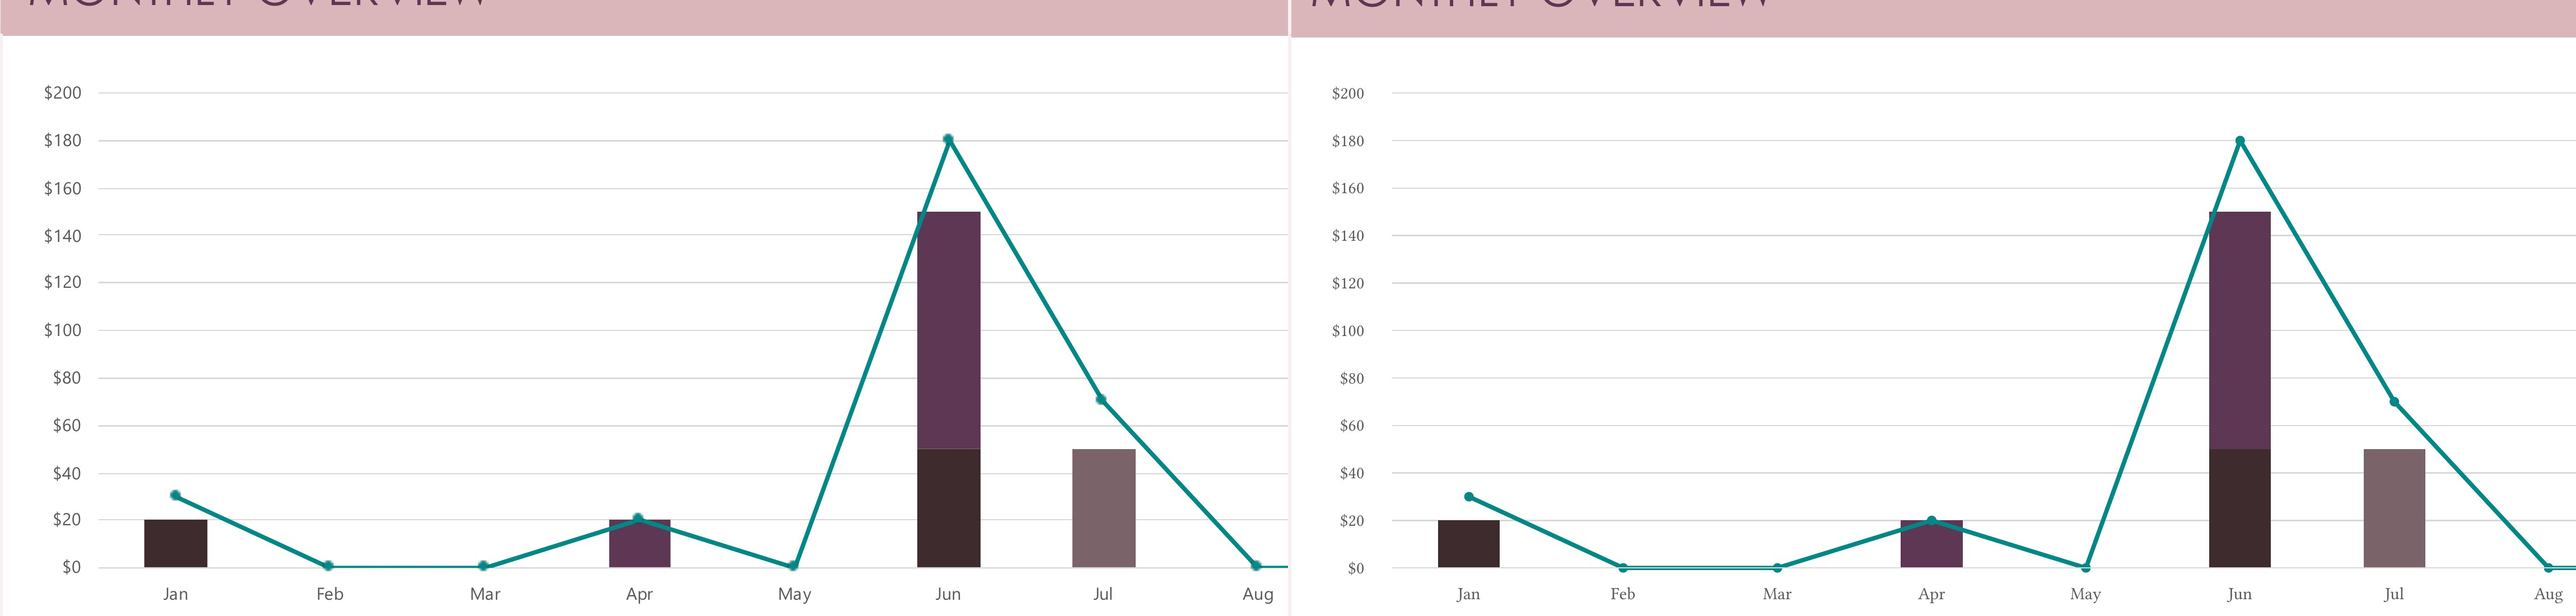
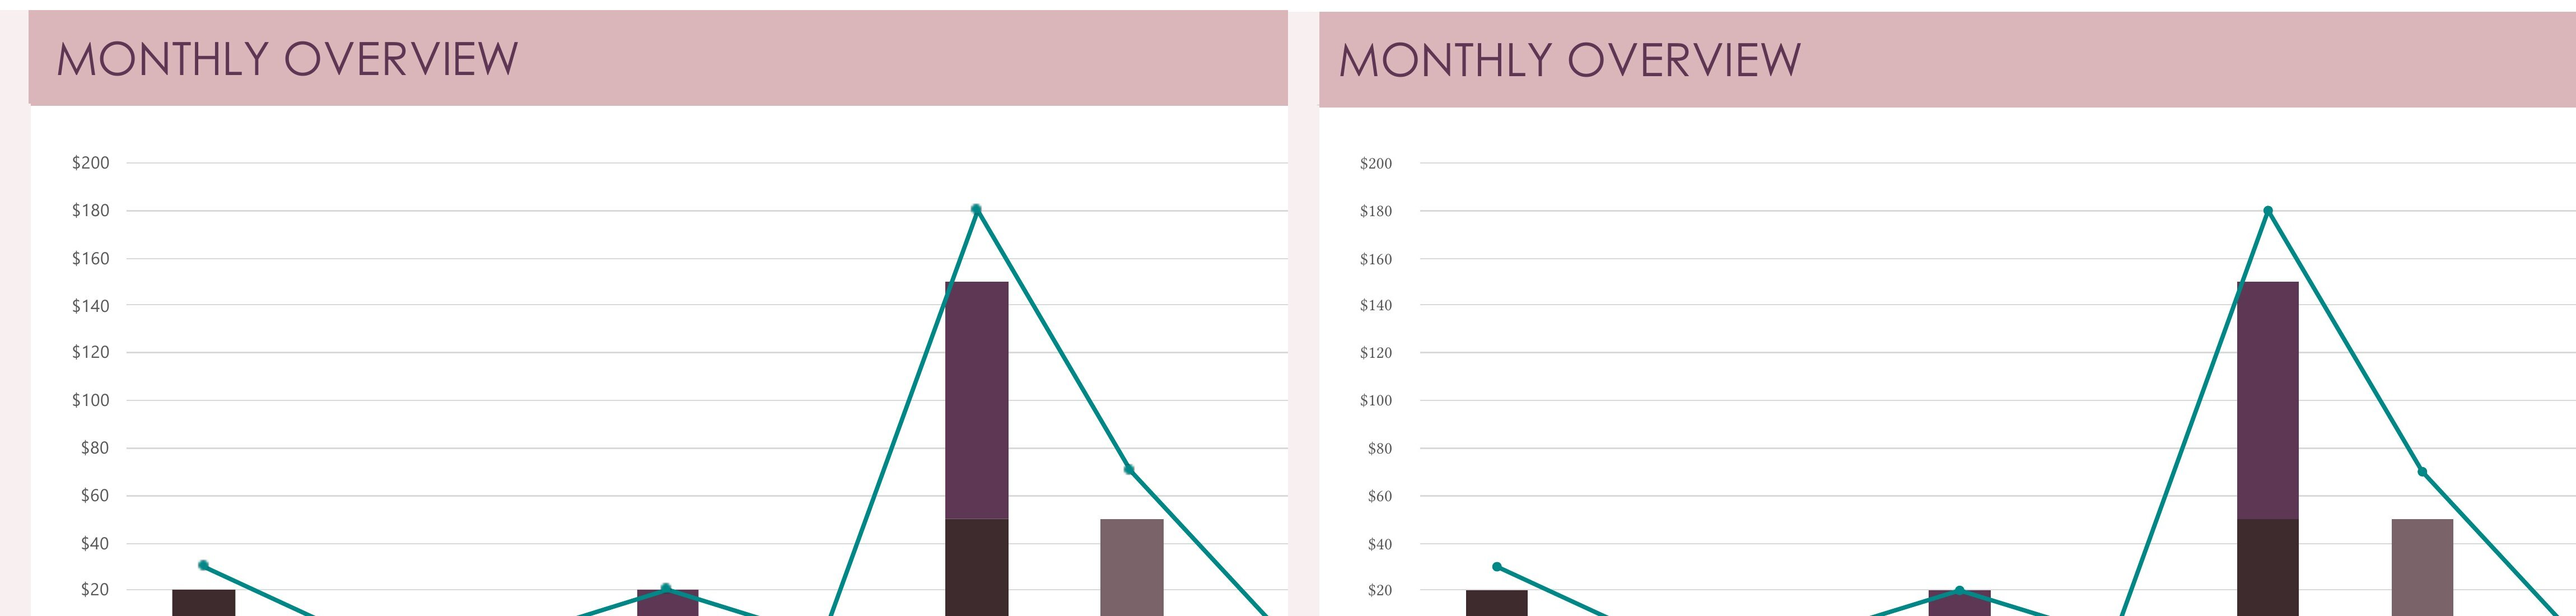
fix(xlsx): snap worksheet chart gridlines

diff --git a/crates/office2pdf/src/render/typst_gen_diagrams.rs b/crates/office2pdf/src/render/typst_gen_diagrams.rs
@@ -110,6 +110,29 @@ pub(super) fn generate_chart(out: &mut String, chart: &Chart) {
 /// empty slide underneath (issue #548). Flowed charts have no frame and keep
 /// the intrinsic size.
 pub(super) fn generate_chart_in(out: &mut String, chart: &Chart, frame: Option<(f64, f64)>) {
+    generate_chart_in_with_sheet_origin(out, chart, frame, None);
+}
+
+/// Render a chart anchored on an Excel worksheet.
+///
+/// `sheet_frame_top_pt` is the chart frame's top in Excel's unscaled sheet
+/// coordinate space. Excel uses that phase when it snaps column-chart axis
+/// chrome before applying the worksheet print scale (issue #1471).
+pub(super) fn generate_sheet_chart_in(
+    out: &mut String,
+    chart: &Chart,
+    frame: (f64, f64),
+    sheet_frame_top_pt: f64,
+) {
+    generate_chart_in_with_sheet_origin(out, chart, Some(frame), Some(sheet_frame_top_pt));
+}
+
+fn generate_chart_in_with_sheet_origin(
+    out: &mut String,
+    chart: &Chart,
+    frame: Option<(f64, f64)>,
+    sheet_frame_top_pt: Option<f64>,
+) {
     // A framed chart is already bounded by its frame, so the page-break guard
     // only concerns the flowed case.
     let atomic: bool = frame.is_none() && chart_fits_on_one_page(chart);
@@ -126,7 +149,7 @@ pub(super) fn generate_chart_in(out: &mut String, chart: &Chart, frame: Option<(
         out.push_str("#[\n");
         out.push_str(scope);
     }
-    generate_chart_body(out, chart, frame);
+    generate_chart_body(out, chart, frame, sheet_frame_top_pt);
     if font_scope.is_some() {
         out.push_str("]\n");
     }
@@ -151,9 +174,16 @@ fn chart_text_font_scope(chart: &Chart) -> Option<String> {
 }
 
 /// Emit the chart's own markup, without the atomicity wrapper.
-fn generate_chart_body(out: &mut String, chart: &Chart, frame: Option<(f64, f64)>) {
+fn generate_chart_body(
+    out: &mut String,
+    chart: &Chart,
+    frame: Option<(f64, f64)>,
+    sheet_frame_top_pt: Option<f64>,
+) {
     match chart_variant(chart) {
-        ChartVariant::AxisPlot => return generate_chart_axis(out, chart, frame),
+        ChartVariant::AxisPlot => {
+            return generate_chart_axis(out, chart, frame, sheet_frame_top_pt);
+        }
         ChartVariant::LinePlot => return generate_chart_line_plot(out, chart, frame),
         ChartVariant::PiePlot => return generate_chart_pie_plot(out, chart, frame),
         ChartVariant::RadarPlot => return generate_chart_radar_plot(out, chart, frame),
@@ -3486,9 +3516,37 @@ fn band_bars(band: f64, series_count: usize, layout: BarBandLayout) -> BandBars 
     }
 }
 
+/// Seat one value-axis gridline, label, or tick for a column chart.
+///
+/// An anchored Excel worksheet chart lays out its plot in unscaled sheet
+/// points. It preserves the exact plot edges but rounds every interior chrome
+/// seat to the nearest whole sheet point before fit-to-page scaling (#1471).
+/// Bars and overlaid data series keep their continuous value coordinates.
+fn column_value_chrome_y(
+    chart: &Chart,
+    plot_y: f64,
+    plot_h: f64,
+    frac: f64,
+    sheet_frame_top_pt: Option<f64>,
+) -> f64 {
+    let y: f64 = plot_y + (1.0 - frac) * plot_h;
+    if chart.host != crate::ir::ChartHost::Spreadsheet || !(0.0 < frac && frac < 1.0) {
+        return y;
+    }
+    let Some(frame_top) = sheet_frame_top_pt else {
+        return y;
+    };
+    (frame_top + y).round() - frame_top
+}
+
 /// Render a bar (horizontal) or column (vertical) chart as an axis-scaled
 /// plot with gridlines, tick labels, and a legend.
-fn generate_chart_axis(out: &mut String, chart: &Chart, frame: Option<(f64, f64)>) {
+fn generate_chart_axis(
+    out: &mut String,
+    chart: &Chart,
+    frame: Option<(f64, f64)>,
+    sheet_frame_top_pt: Option<f64>,
+) {
     let horizontal: bool = matches!(chart.chart_type, ChartType::Bar);
     let categories: usize = chart.categories.len();
     let series: &[crate::ir::ChartSeries] = &chart.series;
@@ -3631,7 +3689,7 @@ fn generate_chart_axis(out: &mut String, chart: &Chart, frame: Option<(f64, f64)
                 );
             }
         } else {
-            let y: f64 = plot_y + (1.0 - frac) * plot_h;
+            let y: f64 = column_value_chrome_y(chart, plot_y, plot_h, frac, sheet_frame_top_pt);
             if let Some(stroke) = gridline_stroke.as_deref() {
                 let _ = writeln!(
                     out,
@@ -3964,7 +4022,13 @@ fn generate_chart_axis(out: &mut String, chart: &Chart, frame: Option<(f64, f64)
                     );
                 }
             } else if let Some(stroke) = left_stroke.as_deref() {
-                write_tick_left_of_plot(out, plot_x, plot_y + (1.0 - frac) * plot_h, reach, stroke);
+                write_tick_left_of_plot(
+                    out,
+                    plot_x,
+                    column_value_chrome_y(chart, plot_y, plot_h, frac, sheet_frame_top_pt),
+                    reach,
+                    stroke,
+                );
             }
         }
     }

diff --git a/crates/office2pdf/src/render/typst_gen_diagram_visual_tests.rs b/crates/office2pdf/src/render/typst_gen_diagram_visual_tests.rs
@@ -4419,6 +4419,94 @@ fn an_excel_worksheet_column_plot_uses_the_native_vertical_edges() {
 }
 
 #[test]
+fn an_anchored_excel_worksheet_chart_snaps_interior_gridlines_in_sheet_space() {
+    // Excel lays the #1471 chart out in unscaled sheet points, snaps each
+    // interior major gridline to a whole point there, and only then applies
+    // the sheet's 0.82 fit-to-page scale. The plot endpoints themselves stay
+    // on the exact #1250 chrome model rather than being rounded.
+    const PRINT_SCALE: f64 = 0.82;
+    const CHART_SPACE_FRAME_TOP: f64 = 143.866_536_585_365_85;
+    const ANCHOR_Y: f64 = 79.256_692_913_385_83;
+    let margin_top = CHART_SPACE_FRAME_TOP * PRINT_SCALE - ANCHOR_Y;
+
+    let mut chart = excel_gift_vertical_chart(9.0, 9.0, 9.0);
+    chart.value_axis_max = Some(200.0);
+    chart.value_axis_major_unit = Some(20.0);
+    let doc = make_doc(vec![Page::Sheet(SheetPage {
+        name: "Gift budget and tracker".to_string(),
+        size: PageSize::default(),
+        margins: Margins {
+            top: margin_top,
+            ..Margins::default()
+        },
+        table: make_simple_table(vec![vec![""]]),
+        header: None,
+        footer: None,
+        charts: vec![crate::ir::SheetChart {
+            anchor_row: 3,
+            placement: Some(crate::ir::SheetChartPlacement {
+                x_offset_pt: 0.0,
+                y_offset_pt: ANCHOR_Y,
+                width: EXCEL_GIFT_CHART_FRAME.0,
+                height: EXCEL_GIFT_CHART_FRAME.1,
+                print_scale: PRINT_SCALE,
+            }),
+            chart,
+        }],
+        images: Vec::new(),
+        text_boxes: Vec::new(),
+    })]);
+    let source = generate_typst(&doc).unwrap().source;
+
+    let page_frame_top = leading_pt(
+        source
+            .split_once("#place(top + left, dy: ")
+            .expect("the sheet places its drawing layer chart")
+            .1,
+    )
+    .expect("the chart page offset is a point measurement");
+    let chart_space_frame_top = page_frame_top / PRINT_SCALE;
+    assert!(
+        (chart_space_frame_top - CHART_SPACE_FRAME_TOP).abs() <= 0.001,
+        "test setup changed the sheet-space phase: {chart_space_frame_top}pt; source:\n{source}"
+    );
+
+    // Major gridlines are the first eleven full-width horizontal chart-chrome
+    // lines: ticks are emitted from $0 at the bottom through $200 at the top.
+    let gridline_y: Vec<f64> = emitted_lines(&source)
+        .into_iter()
+        .filter(|line| line.end_x > 100.0 && same_length(line.end_y, 0.0))
+        .take(11)
+        .map(|line| chart_space_frame_top + line.dy)
+        .collect();
+    assert_eq!(
+        gridline_y.len(),
+        11,
+        "expected eleven major gridlines: {source}"
+    );
+
+    let expected = [
+        402.193_536_585_365_85,
+        377.0,
+        353.0,
+        328.0,
+        303.0,
+        278.0,
+        253.0,
+        228.0,
+        204.0,
+        179.0,
+        154.012_536_585_365_85,
+    ];
+    for (index, (actual, expected)) in gridline_y.into_iter().zip(expected).enumerate() {
+        assert!(
+            (actual - expected).abs() <= 0.002,
+            "gridline {index} lands at {actual} sheet pt, native Excel uses {expected} sheet pt; source:\n{source}"
+        );
+    }
+}
+
+#[test]
 fn an_excel_worksheet_plot_top_follows_the_native_value_size_probes() {
     // Re-zip-controlled native Excel exports with only c:valAx text size
     // changed. Excel floors the top chrome at the 9pt seat, then grows it by

diff --git a/crates/office2pdf/src/render/typst_gen.rs b/crates/office2pdf/src/render/typst_gen.rs
@@ -19,7 +19,9 @@ use crate::ir::{
     TextDirection, TextStyle, VerticalTextAlign, WrapMode,
 };
 
-use self::diagrams::{generate_chart, generate_chart_in, generate_smartart};
+use self::diagrams::{
+    generate_chart, generate_chart_in, generate_sheet_chart_in, generate_smartart,
+};
 use self::fmt::*;
 use self::lists::{
     ListEojeolWrap, can_render_fixed_text_list_inline, common_text_style,
@@ -1190,7 +1192,7 @@ fn write_placed_sheet_drawing(
     ctx: &mut GenCtx,
 ) {
     let _ = write!(out, "#place(top + left, dy: {}pt)[", format_f64(dy_pt));
-    write_placed_sheet_anchor(out, anchor, left_pt, ctx);
+    write_placed_sheet_anchor(out, anchor, left_pt, dy_pt, ctx);
     out.push(']');
 }
 
@@ -1200,6 +1202,7 @@ fn write_placed_sheet_anchor(
     out: &mut String,
     anchor: &SheetAnchor,
     left_pt: f64,
+    dy_pt: f64,
     ctx: &mut GenCtx,
 ) {
     match anchor {
@@ -1229,10 +1232,16 @@ fn write_placed_sheet_anchor(
                     "#scale(x: {percent}%, y: {percent}%, origin: top + left)[",
                 );
             }
-            generate_chart_in(
+            let sheet_frame_top_pt: f64 = if placement.print_scale > 0.0 {
+                dy_pt / placement.print_scale
+            } else {
+                dy_pt
+            };
+            generate_sheet_chart_in(
                 out,
                 &sheet_chart.chart,
-                Some((placement.width, placement.height)),
+                (placement.width, placement.height),
+                sheet_frame_top_pt,
             );
             if fitted {
                 out.push(']');
